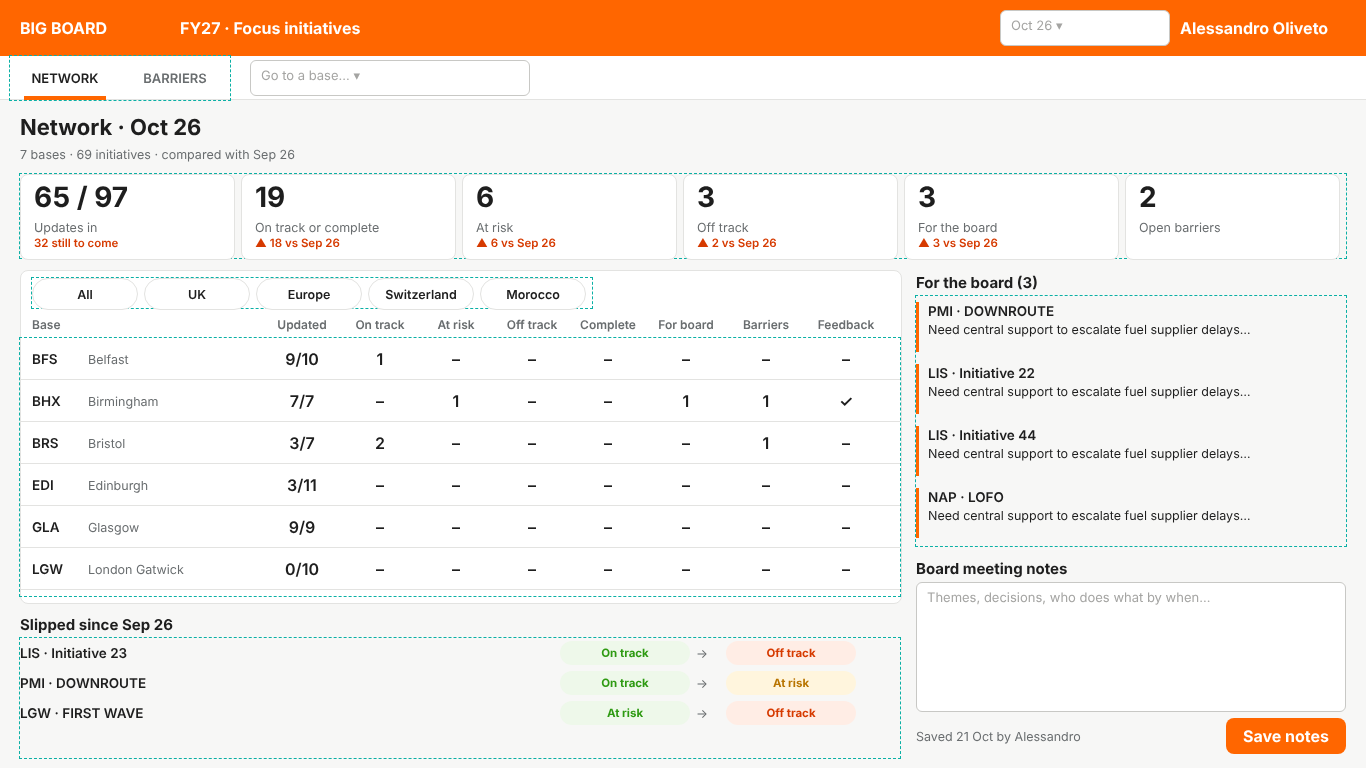
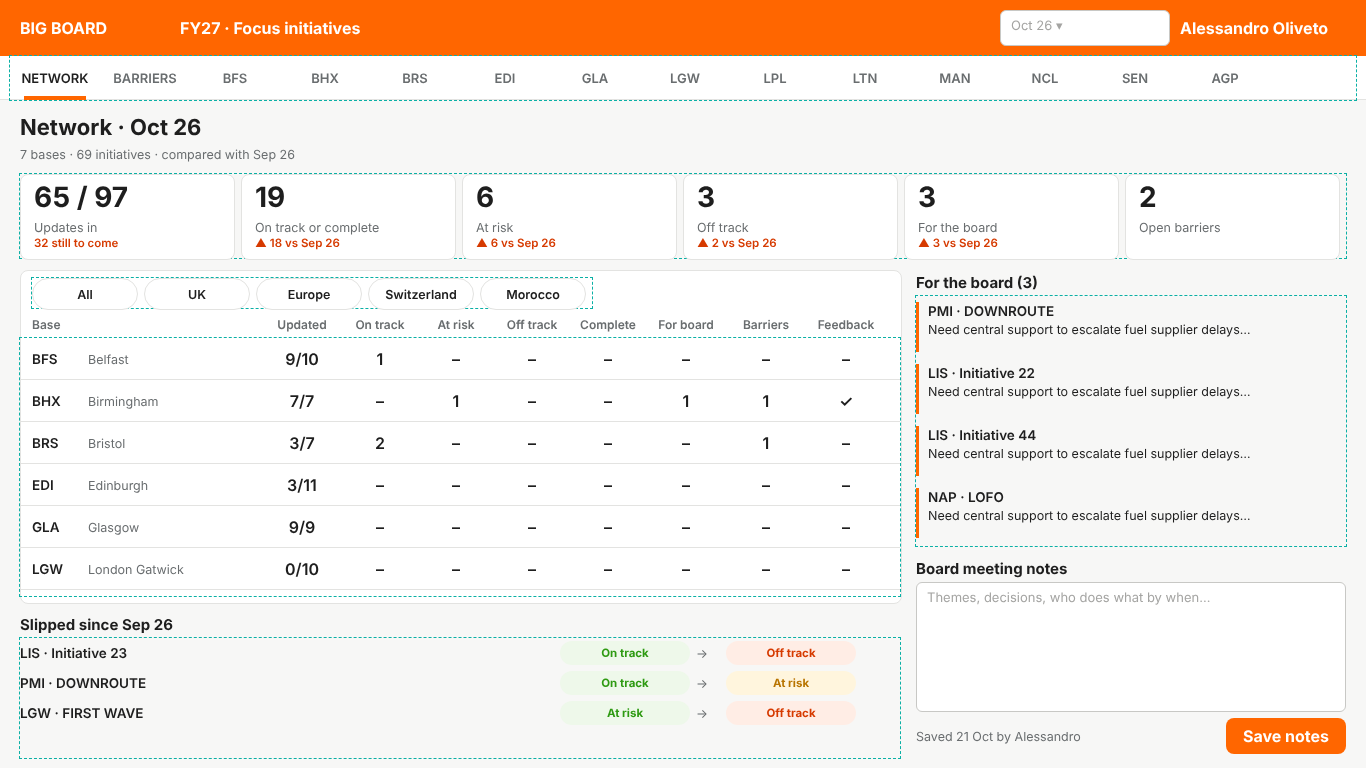
Power Apps build: scrolling tab bar with every base
Replace the base picker with a horizontally scrolling tab gallery
(Network, Barriers, then one tab per base) built once in OnStart as
colTabs. Wireframes regenerated.

Claude-Session: https://claude.ai/code/session_01FSDzs4oTqSNZtfHC1o1esS

diff --git a/powerapps/BUILD.md b/powerapps/BUILD.md
@@ -263,6 +263,9 @@ Concurrent(
     ClearCollect(colFb,   Filter('Board Feedback', Month = varMonth)),
     ClearCollect(colBar,  Filter(Updates, ForBoard = true))
 );
+// Tabs: Network, Barriers, then one per base. The tab bar scrolls sideways.
+ClearCollect(colTabs, ["NETWORK", "BARRIERS"]);
+Collect(colTabs, ForAll(colBases, {Value: Code}))
 ```
 
 **The reload block.** The last part of OnStart, from `Set(varPrev, …` to the closing `)`, is referred to below as **<RELOAD BLOCK>**. Paste it wherever that appears: the month drop-downs and the Save button. It loads the selected month, the month before for comparisons, board feedback, and every flagged item for the barriers list. Each filter runs on SharePoint's side, so it keeps working as the lists grow.
@@ -288,10 +291,9 @@ Set(varView, "NETWORK")
 | `lblUser` | Label | 1180 | 0 | 166 | 56 | |
 | `recNav` | Rectangle | 0 | 56 | 1366 | 44 | |
 | `recNavLine` | Rectangle | 0 | 99 | 1366 | 1 | |
-| `galNav` | Gallery (horizontal, blank) | 10 | 56 | 220 | 44 | |
-| `btnTab` | Button | 0 | 0 | 110 | 44 | `galNav` |
-| `recTabOn` | Rectangle | 14 | 40 | 82 | 4 | `galNav` |
-| `cmbBase` | Combo box | 250 | 60 | 280 | 36 | |
+| `galNav` | Gallery (horizontal, blank) | 10 | 56 | 1346 | 44 | |
+| `btnTab` | Button | 0 | 0 | 90 | 44 | `galNav` |
+| `recTabOn` | Rectangle | 14 | 40 | 62 | 4 | `galNav` |
 | `lblNetTitle` | Label | 20 | 110 | 700 | 34 | |
 | `lblNetSub` | Label | 20 | 142 | 900 | 24 | |
 | `galKpi` | Gallery (horizontal, blank) | 20 | 174 | 1326 | 84 | |
@@ -405,10 +407,12 @@ Fill: cLine
 **`galNav`**
 
 ```
-Items: ["NETWORK", "BARRIERS"]
-TemplateSize: 110
+Items: colTabs
+TemplateSize: 90
 TemplatePadding: 0
-ShowScrollbar: false
+ShowScrollbar: true
+ShowNavigation: true
+NavigationStep: 5
 ```
 
 **`btnTab`** (in `galNav`)
@@ -426,7 +430,8 @@ Size: 11
 FontWeight: FontWeight.Semibold
 OnSelect:
     Set(varView, ThisItem.Value);
-    Navigate(If(ThisItem.Value = "NETWORK", scrNetwork, scrBarriers), ScreenTransition.None)
+    Set(varFilter, "All");
+    Navigate(Switch(ThisItem.Value, "NETWORK", scrNetwork, "BARRIERS", scrBarriers, scrBase), ScreenTransition.None)
 ```
 
 **`recTabOn`** (in `galNav`)
@@ -434,24 +439,6 @@ OnSelect:
 ```
 Fill: cOrange
 Visible: varView = ThisItem.Value
-```
-
-**`cmbBase`**
-
-```
-Items: colBases
-DisplayFields: ["Code", "Name"]
-SearchFields: ["Code", "Name"]
-IsSearchable: true
-SelectMultiple: false
-InputTextPlaceholder: "Go to a base…"
-DefaultSelectedItems: Filter(colBases, Code = varView)
-OnChange:
-    If(!IsBlank(Self.Selected),
-        Set(varView, Self.Selected.Code);
-        Set(varFilter, "All");
-        Navigate(scrBase, ScreenTransition.None))
-BorderColor: If(LookUp(colBases, Code = varView, true), cOrange, cLine)
 ```
 
 **`lblNetTitle`**
@@ -904,7 +891,7 @@ OnSelect:
 
 ![scrBase](scrBase.png)
 
-The header and tab bar (everything named `…_1` / `…_2`) are a copy of the ones on scrNetwork. Select those nine controls on scrNetwork, copy, and paste them here. Power Apps adds the suffix and keeps positions.
+The header and tab bar (everything named `…_1` / `…_2`) are a copy of the ones on scrNetwork. Select those eight controls on scrNetwork, copy, and paste them here. Power Apps adds the suffix and keeps positions.
 
 | Control | Type | X | Y | W | H | Inside |
 |---|---|---|---|---|---|---|
@@ -915,10 +902,9 @@ The header and tab bar (everything named `…_1` / `…_2`) are a copy of the on
 | `lblUser_1` | Label | 1180 | 0 | 166 | 56 | |
 | `recNav_1` | Rectangle | 0 | 56 | 1366 | 44 | |
 | `recNavLine_1` | Rectangle | 0 | 99 | 1366 | 1 | |
-| `galNav_1` | Gallery (horizontal, blank) | 10 | 56 | 220 | 44 | |
-| `btnTab_1` | Button | 0 | 0 | 110 | 44 | `galNav_1` |
-| `recTabOn_1` | Rectangle | 14 | 40 | 82 | 4 | `galNav_1` |
-| `cmbBase_1` | Combo box | 250 | 60 | 280 | 36 | |
+| `galNav_1` | Gallery (horizontal, blank) | 10 | 56 | 1346 | 44 | |
+| `btnTab_1` | Button | 0 | 0 | 90 | 44 | `galNav_1` |
+| `recTabOn_1` | Rectangle | 14 | 40 | 62 | 4 | `galNav_1` |
 | `lblBaseTitle` | Label | 20 | 110 | 700 | 34 | |
 | `lblBaseSub` | Label | 20 | 142 | 900 | 24 | |
 | `galFilters` | Gallery (horizontal, blank) | 20 | 174 | 660 | 36 | |
@@ -1010,10 +996,12 @@ Fill: cLine
 **`galNav_1`**
 
 ```
-Items: ["NETWORK", "BARRIERS"]
-TemplateSize: 110
+Items: colTabs
+TemplateSize: 90
 TemplatePadding: 0
-ShowScrollbar: false
+ShowScrollbar: true
+ShowNavigation: true
+NavigationStep: 5
 ```
 
 **`btnTab_1`** (in `galNav_1`)
@@ -1031,7 +1019,8 @@ Size: 11
 FontWeight: FontWeight.Semibold
 OnSelect:
     Set(varView, ThisItem.Value);
-    Navigate(If(ThisItem.Value = "NETWORK", scrNetwork, scrBarriers), ScreenTransition.None)
+    Set(varFilter, "All");
+    Navigate(Switch(ThisItem.Value, "NETWORK", scrNetwork, "BARRIERS", scrBarriers, scrBase), ScreenTransition.None)
 ```
 
 **`recTabOn_1`** (in `galNav_1`)
@@ -1039,24 +1028,6 @@ OnSelect:
 ```
 Fill: cOrange
 Visible: varView = ThisItem.Value
-```
-
-**`cmbBase_1`**
-
-```
-Items: colBases
-DisplayFields: ["Code", "Name"]
-SearchFields: ["Code", "Name"]
-IsSearchable: true
-SelectMultiple: false
-InputTextPlaceholder: "Go to a base…"
-DefaultSelectedItems: Filter(colBases, Code = varView)
-OnChange:
-    If(!IsBlank(Self.Selected),
-        Set(varView, Self.Selected.Code);
-        Set(varFilter, "All");
-        Navigate(scrBase, ScreenTransition.None))
-BorderColor: If(LookUp(colBases, Code = varView, true), cOrange, cLine)
 ```
 
 **`lblBaseTitle`**
@@ -1577,7 +1548,7 @@ OnSelect:
 Set(varView, "BARRIERS")
 ```
 
-The header and tab bar (everything named `…_1` / `…_2`) are a copy of the ones on scrNetwork. Select those nine controls on scrNetwork, copy, and paste them here. Power Apps adds the suffix and keeps positions.
+The header and tab bar (everything named `…_1` / `…_2`) are a copy of the ones on scrNetwork. Select those eight controls on scrNetwork, copy, and paste them here. Power Apps adds the suffix and keeps positions.
 
 | Control | Type | X | Y | W | H | Inside |
 |---|---|---|---|---|---|---|
@@ -1588,10 +1559,9 @@ The header and tab bar (everything named `…_1` / `…_2`) are a copy of the on
 | `lblUser_2` | Label | 1180 | 0 | 166 | 56 | |
 | `recNav_2` | Rectangle | 0 | 56 | 1366 | 44 | |
 | `recNavLine_2` | Rectangle | 0 | 99 | 1366 | 1 | |
-| `galNav_2` | Gallery (horizontal, blank) | 10 | 56 | 220 | 44 | |
-| `btnTab_2` | Button | 0 | 0 | 110 | 44 | `galNav_2` |
-| `recTabOn_2` | Rectangle | 14 | 40 | 82 | 4 | `galNav_2` |
-| `cmbBase_2` | Combo box | 250 | 60 | 280 | 36 | |
+| `galNav_2` | Gallery (horizontal, blank) | 10 | 56 | 1346 | 44 | |
+| `btnTab_2` | Button | 0 | 0 | 90 | 44 | `galNav_2` |
+| `recTabOn_2` | Rectangle | 14 | 40 | 62 | 4 | `galNav_2` |
 | `lblBarTitle` | Label | 20 | 110 | 800 | 34 | |
 | `lblBarSub` | Label | 20 | 142 | 900 | 24 | |
 | `ddBarBase` | Drop down | 20 | 174 | 160 | 36 | |
@@ -1680,10 +1650,12 @@ Fill: cLine
 **`galNav_2`**
 
 ```
-Items: ["NETWORK", "BARRIERS"]
-TemplateSize: 110
+Items: colTabs
+TemplateSize: 90
 TemplatePadding: 0
-ShowScrollbar: false
+ShowScrollbar: true
+ShowNavigation: true
+NavigationStep: 5
 ```
 
 **`btnTab_2`** (in `galNav_2`)
@@ -1701,7 +1673,8 @@ Size: 11
 FontWeight: FontWeight.Semibold
 OnSelect:
     Set(varView, ThisItem.Value);
-    Navigate(If(ThisItem.Value = "NETWORK", scrNetwork, scrBarriers), ScreenTransition.None)
+    Set(varFilter, "All");
+    Navigate(Switch(ThisItem.Value, "NETWORK", scrNetwork, "BARRIERS", scrBarriers, scrBase), ScreenTransition.None)
 ```
 
 **`recTabOn_2`** (in `galNav_2`)
@@ -1709,24 +1682,6 @@ OnSelect:
 ```
 Fill: cOrange
 Visible: varView = ThisItem.Value
-```
-
-**`cmbBase_2`**
-
-```
-Items: colBases
-DisplayFields: ["Code", "Name"]
-SearchFields: ["Code", "Name"]
-IsSearchable: true
-SelectMultiple: false
-InputTextPlaceholder: "Go to a base…"
-DefaultSelectedItems: Filter(colBases, Code = varView)
-OnChange:
-    If(!IsBlank(Self.Selected),
-        Set(varView, Self.Selected.Code);
-        Set(varFilter, "All");
-        Navigate(scrBase, ScreenTransition.None))
-BorderColor: If(LookUp(colBases, Code = varView, true), cOrange, cLine)
 ```
 
 **`lblBarTitle`**
@@ -2050,6 +2005,6 @@ OnSelect:
 - **Check delegation:** if Power Apps shows a blue underline (delegation warning) on any `Filter(Updates, …)`, check that the column in the filter is indexed in SharePoint.
 - **Large lists:** the formulas only send `=` filters on Month, ForBoard and Title to SharePoint. Everything else (search, the filter buttons) runs on the month already loaded, so it stays fast however many months pile up.
 - **Editing initiatives:** add, rename or retire them straight in the Initiatives list (grid view). Set Active to No to retire one. Its past updates stay.
-- **A new base:** add its initiatives to the Initiatives list, with the code in Base. It appears in the base picker, the Network table and the Barriers filter the next time the app opens. It must also have a line in `tBaseInfo` in App.Formulas. Put it where you want it to sort.
+- **A new base:** add its initiatives to the Initiatives list, with the code in Base. It appears as a tab, in the Network table and in the Barriers filter the next time the app opens. It must also have a line in `tBaseInfo` in App.Formulas. Put it where you want it to sort.
 - **Retiring a base:** set Active to No on its initiatives and it drops out of the picker and tables. Its history stays in the lists.
 - **FY28:** change `Date(2026, 9, 1)` in `tMonths`.
